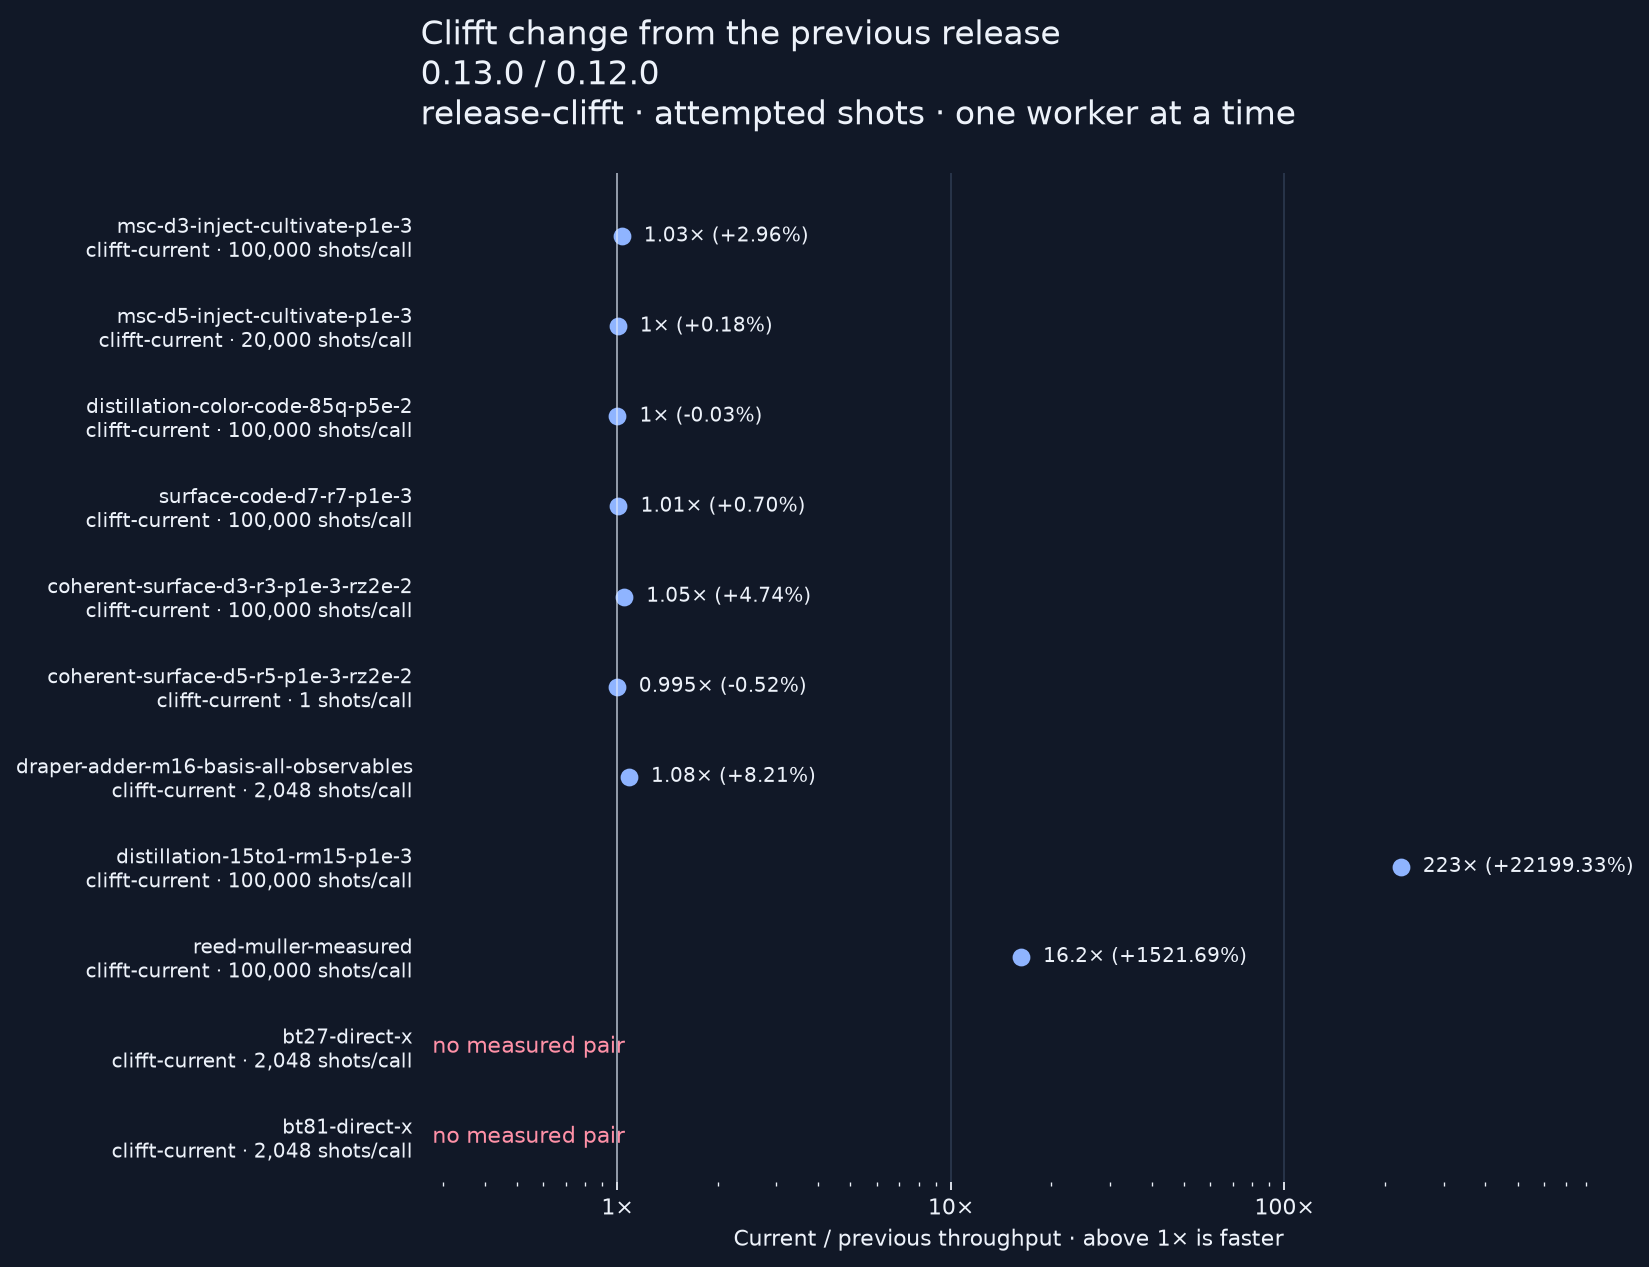
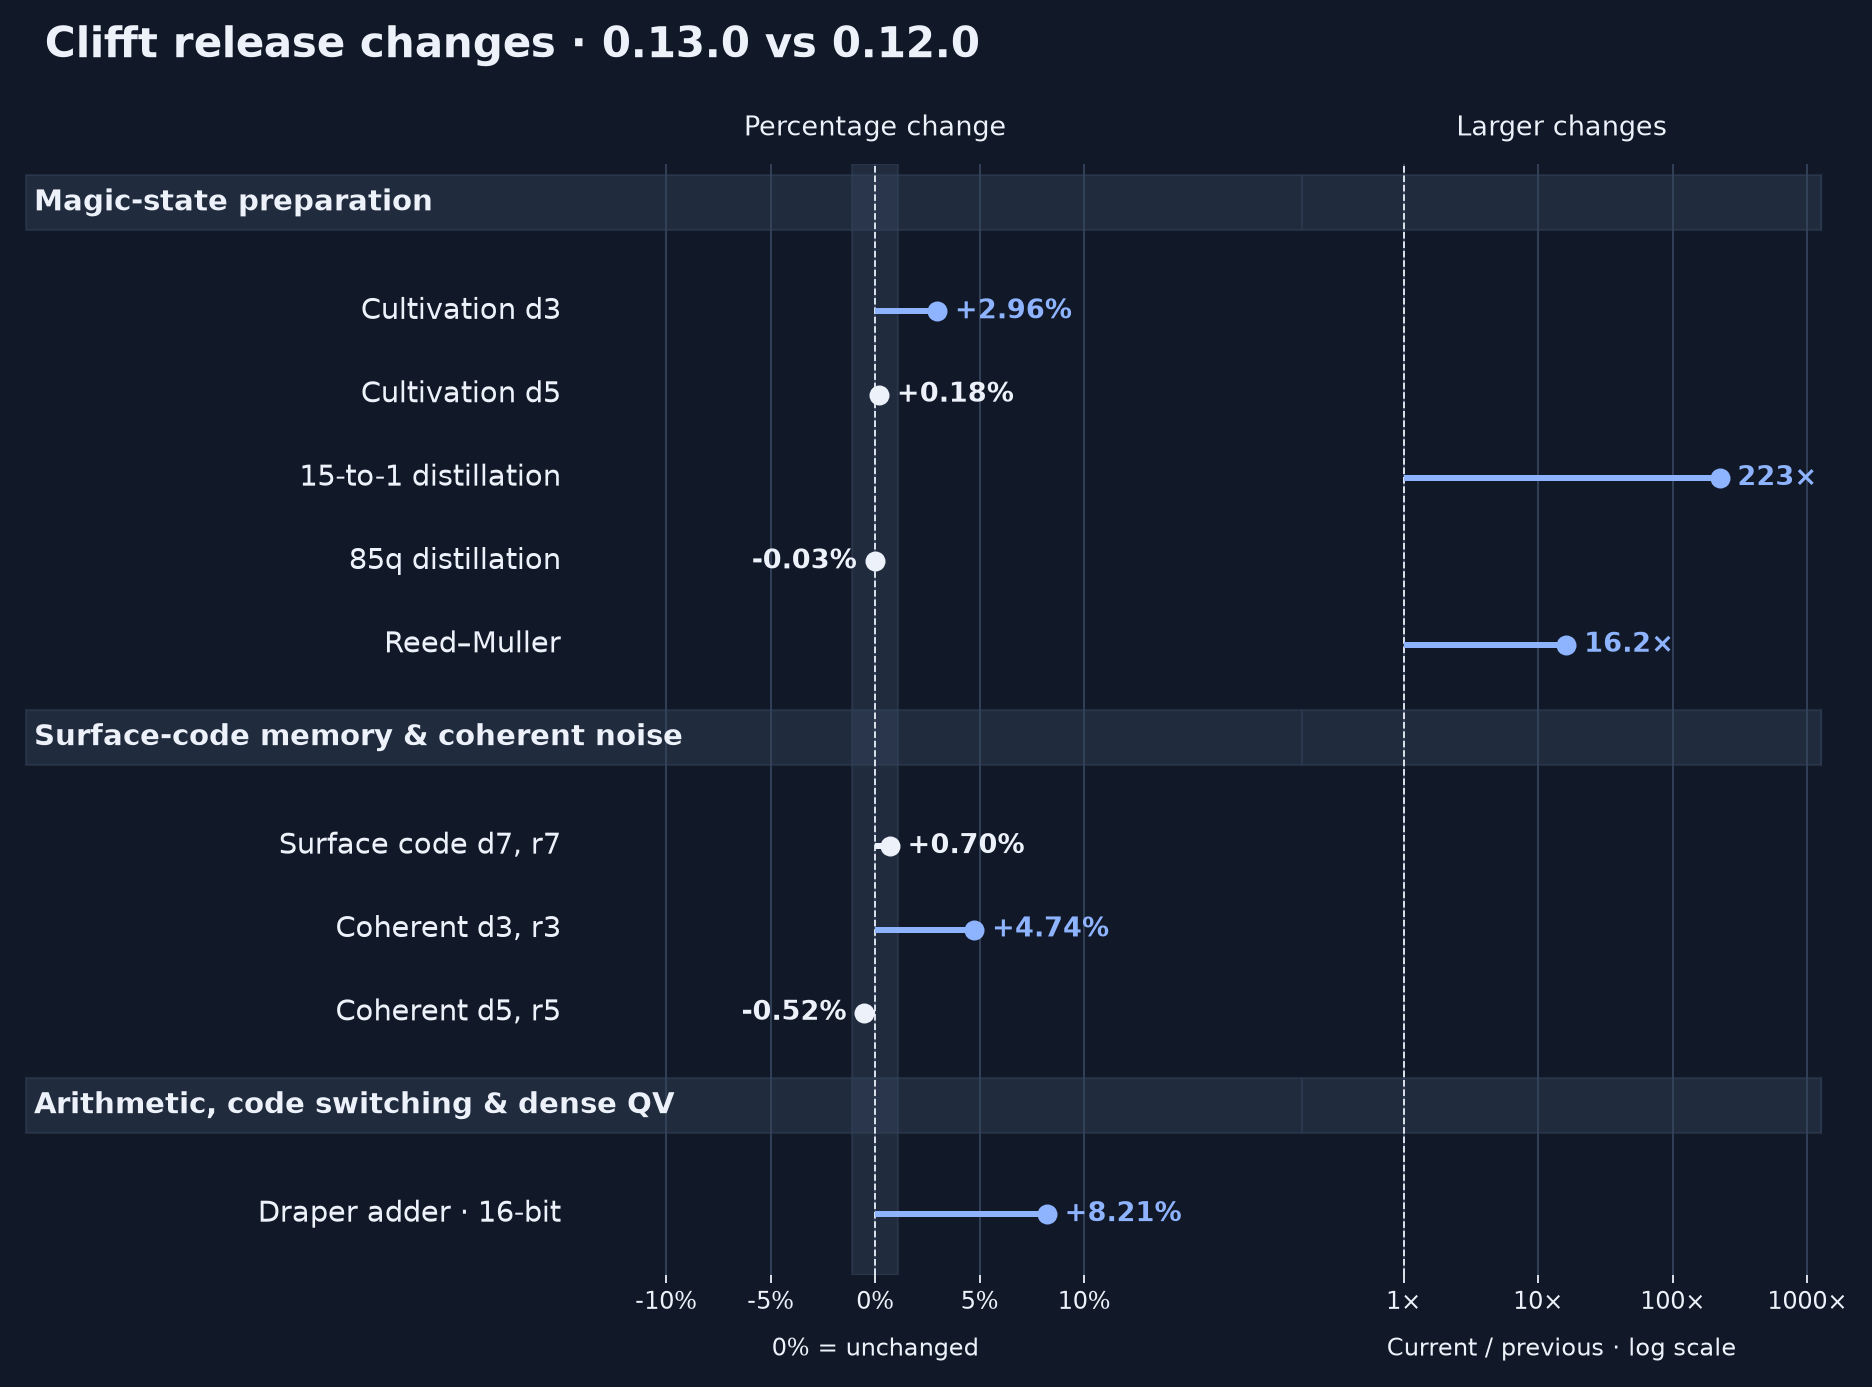
Regenerate RC2 figures with thematic release plots
Keep collection evidence unchanged and record the renderer revision separately.

Assisted-by: Codex (GPT-6) <noreply@openai.com>

diff --git a/results/release-clifft/0.13.0rc2-20261104-140631/README.md b/results/release-clifft/0.13.0rc2-20261104-140631/README.md
@@ -12,7 +12,7 @@ Their original dependency locks are preserved: NumPy 2.5.4 for RC2 and NumPy
 2.5.2 for the previous baseline. This is a comparison of those release
 environments, not an experiment isolating the NumPy version.
 
-Collection and report generation used the clean harness at
+Collection used the clean harness at
 [`3c89445367581edba4d9b7ec5c72e53c4e68eddc`](https://github.com/unitaryfoundation/clifft-bench/tree/3c89445367581edba4d9b7ec5c72e53c4e68eddc),
 with the committed
 [`release-clifft` campaign](https://github.com/unitaryfoundation/clifft-bench/blob/3c89445367581edba4d9b7ec5c72e53c4e68eddc/campaigns/release-clifft.toml).
@@ -36,11 +36,26 @@ the five samples quantify within-worker variability, not variation across
 independent workers or placements. This run does not establish behavior for a
 different preparation history. No additional diagnostic repeat was performed.
 
-Peer tools were not rerun. The committed figures cover Clifft throughput and
-the paired release comparison only; existing peer figures retain their original
-execution provenance. Figure labels use intended final versions 0.13.0/0.12.0;
-raw evidence and the generated review retain the exact RC identities. These are
-review artifacts, not an update to published website figures.
+The figures use the renderer at
+[`fda7460511455ee460ef82464ee10d71098b1371`](https://github.com/unitaryfoundation/clifft-bench/tree/fda7460511455ee460ef82464ee10d71098b1371),
+separately from the collection revision above:
+
+- [Simulator throughput, light](report/simulator-throughput-light.png) and
+  [dark](report/simulator-throughput-dark.png) show 14 current Clifft circuit
+  rows grouped by workload theme, with direct throughput labels. Bulk variants,
+  selection-off controls, and the unverified d7 proxy remain in the detailed
+  results rather than the main figure.
+- [Release changes, light](report/release-change-light.png) and
+  [dark](report/release-change-dark.png) show the nine measured release pairs
+  in the same thematic order. Small changes use a percentage scale with a
+  shaded ±1.1% inconclusive band; larger changes use a separate logarithmic
+  ratio scale.
+
+Peer tools were not rerun. The throughput figure therefore contains only Clifft;
+existing peer figures retain their original execution provenance. Figure labels
+use intended final versions 0.13.0/0.12.0; raw evidence and the generated review
+retain the exact RC identities. These are review artifacts, not an update to
+published website figures.
 
 ## Evidence and validation
 
@@ -64,7 +79,8 @@ review artifacts, not an update to published website figures.
   successful batch-1 candidate was selected and all five measured samples
   succeeded. This is retained in the raw calibration evidence.
 
-To regenerate the review and figures, use the pinned harness with its `report`
-extra and run `clifft-bench report` on this directory. The standard renderer
-also emits a simulator-comparison placeholder when no peer comparison is
-present; that empty figure is not included here.
+To regenerate the review and figures, use the renderer revision linked above
+with its `report` extra and run `clifft-bench report` on this directory. The
+original raw data, CSV, collection log, environment, and exit status are
+byte-identical to the collected evidence. The collection revision remains
+recorded in `raw.json` and the generated review.

diff --git a/results/release-clifft/0.13.0rc2-20261104-140631/report/review.md b/results/release-clifft/0.13.0rc2-20261104-140631/report/review.md
@@ -63,3 +63,29 @@ Bulk and short calls remain separate. Missing baselines are not regressions.
 | current-vs-previous | reed-muller-measured | clifft-current | 16.2169× | baseline: measured; candidate: measured |
 | current-vs-previous | bt27-direct-x | clifft-current | — | baseline: not measured; candidate: measured |
 | current-vs-previous | bt81-direct-x | clifft-current | — | baseline: not measured; candidate: measured |
+
+## Figures
+
+Rates count attempted shots and exclude compilation; lazy planning during sampling
+is included. The main figures share circuit selection and thematic ordering.
+Selection-off controls, the unverified cultivation proxy, and bulk-call variants
+remain in the detailed results above. Colors and marker shapes identify simulators.
+Unsupported pairings have
+no marker; unmeasured and failed cases are labeled. Exact identities and outcomes
+are recorded above. Call sizes are in cases.csv; postselection settings are in raw.json.
+
+Release changes within ±50% use a linear percentage axis; larger changes use
+a separate logarithmic ratio panel. The shaded ±1.1% band is the contract's
+inconclusive region, not a confidence interval. Unpaired workloads have no ratio.
+
+### CPU simulator throughput
+
+[Dark version](simulator-throughput-dark.png)
+
+![CPU simulator throughput](simulator-throughput-light.png)
+
+### Clifft release changes
+
+[Dark version](release-change-dark.png)
+
+![Clifft release changes](release-change-light.png)
